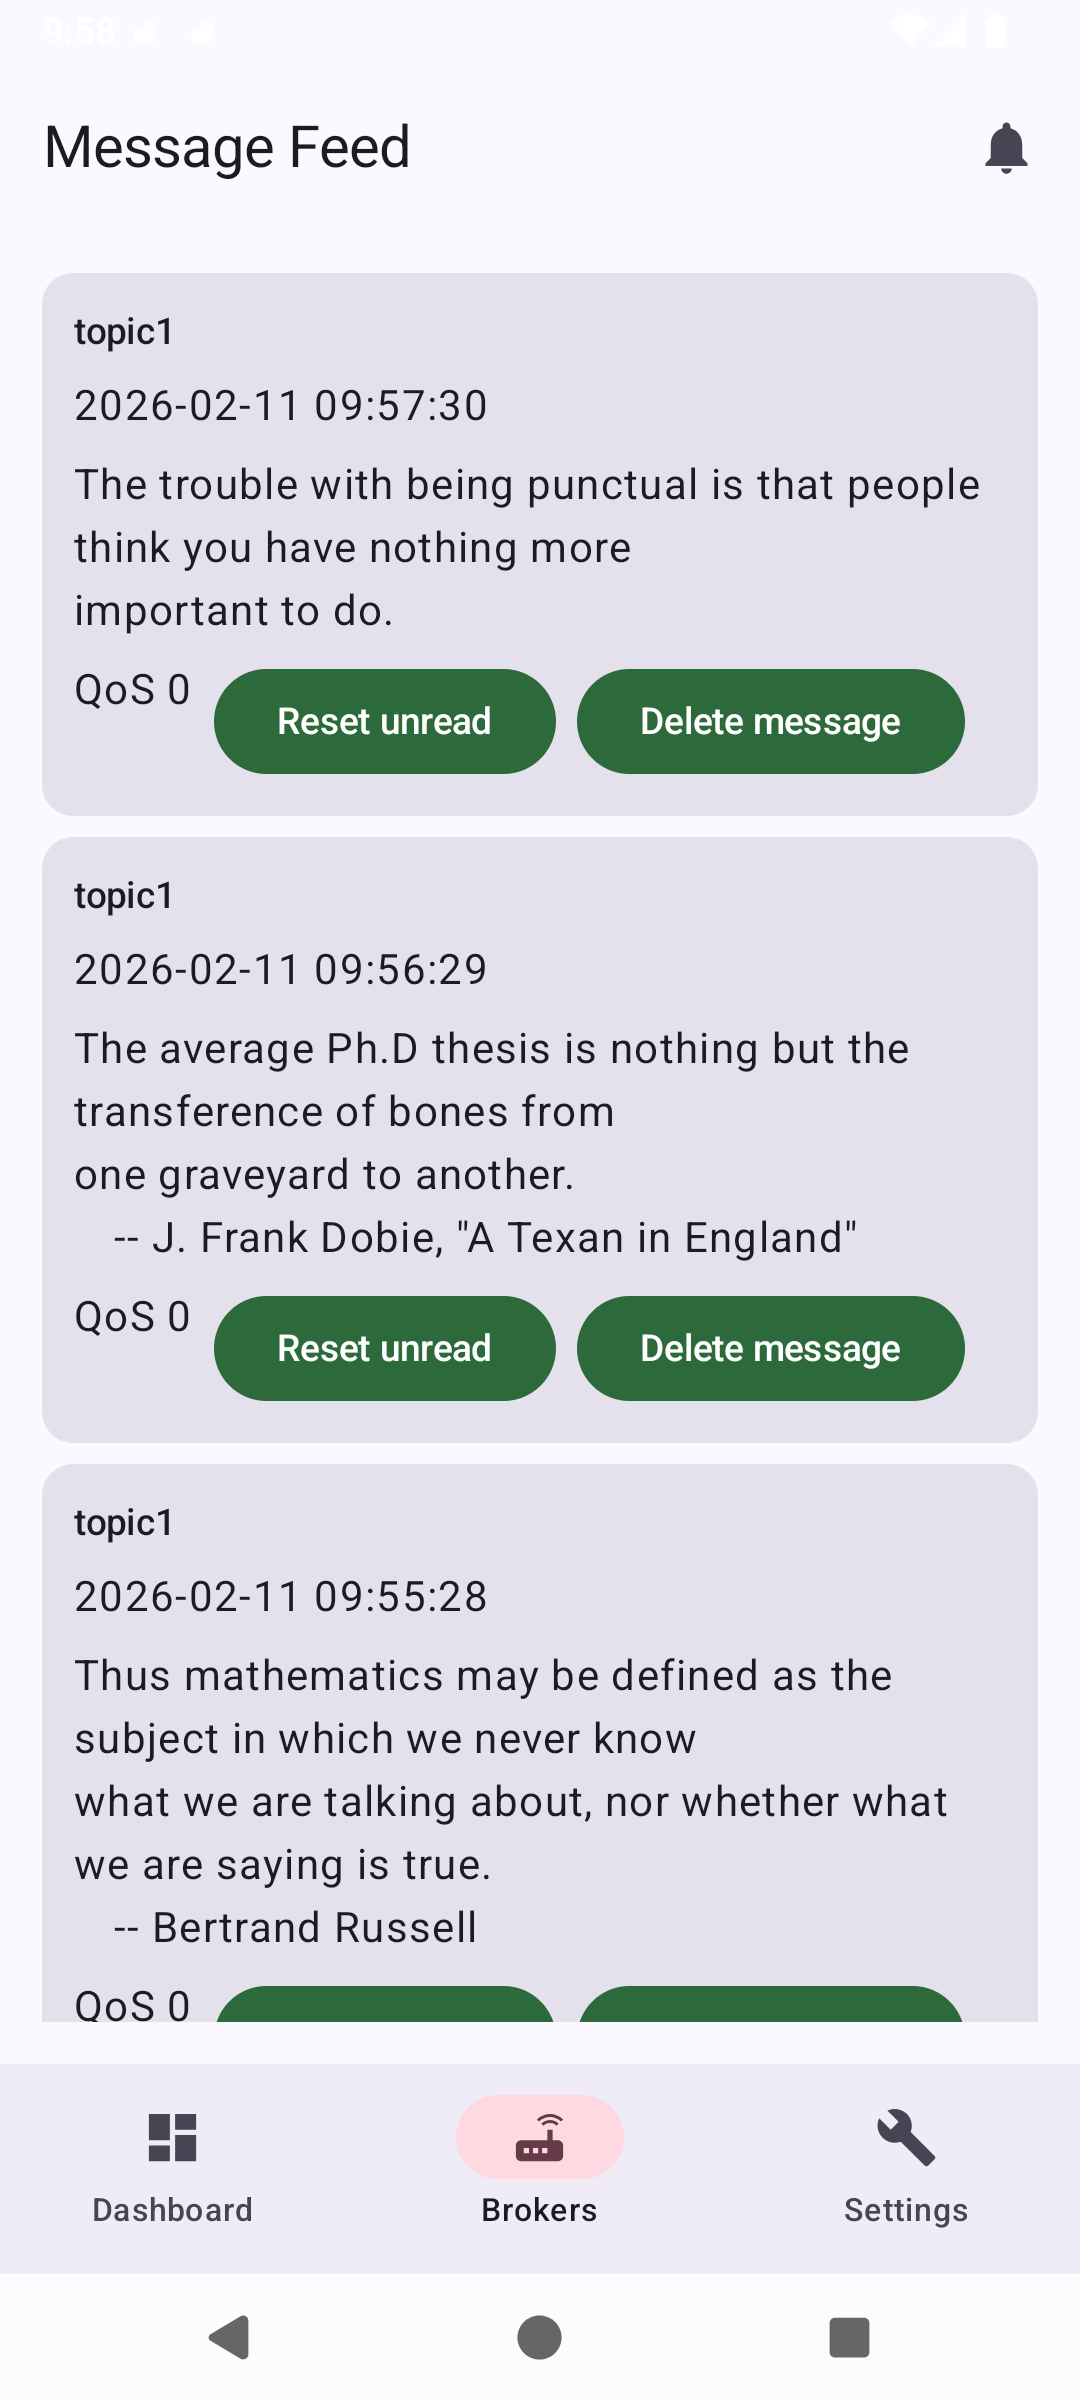
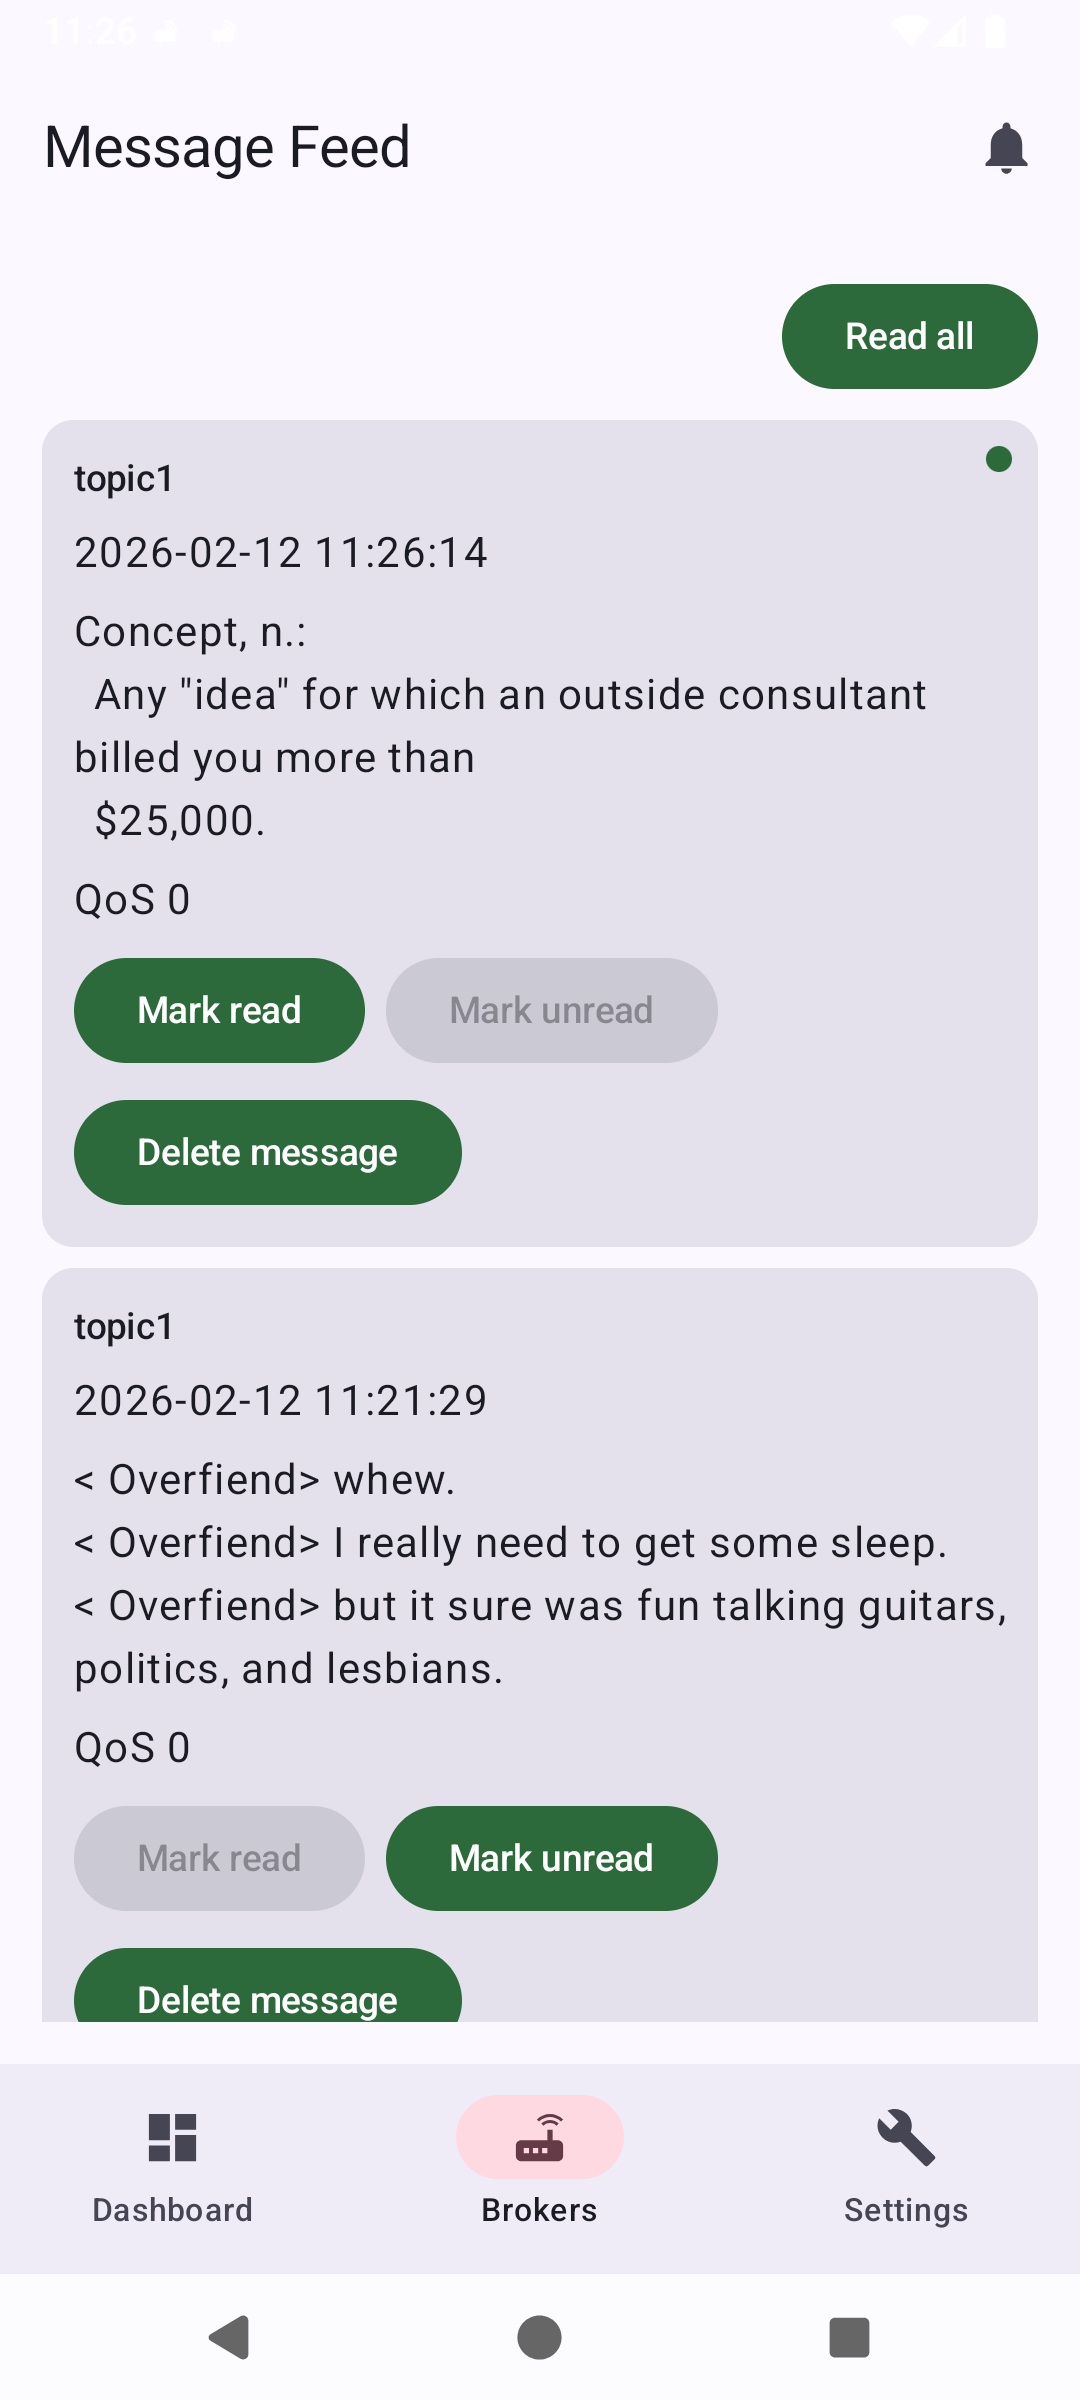
update read/unread system

diff --git a/app/src/main/java/org/archuser/mqttnotify/ui/screen/MessageFeedScreen.kt b/app/src/main/java/org/archuser/mqttnotify/ui/screen/MessageFeedScreen.kt
@@ -3,53 +3,97 @@ package org.archuser.mqttnotify.ui.screen
 import java.text.SimpleDateFormat
 import java.util.Date
 import java.util.Locale
+import androidx.compose.foundation.background
+import androidx.compose.foundation.layout.Box
 import androidx.compose.foundation.layout.Arrangement
 import androidx.compose.foundation.layout.Column
 import androidx.compose.foundation.layout.Row
 import androidx.compose.foundation.layout.fillMaxWidth
 import androidx.compose.foundation.layout.padding
+import androidx.compose.foundation.layout.size
 import androidx.compose.foundation.lazy.LazyColumn
 import androidx.compose.foundation.lazy.items
+import androidx.compose.foundation.shape.CircleShape
 import androidx.compose.material3.Button
 import androidx.compose.material3.Card
 import androidx.compose.material3.MaterialTheme
 import androidx.compose.material3.Text
 import androidx.compose.runtime.Composable
+import androidx.compose.ui.Alignment
 import androidx.compose.ui.Modifier
+import androidx.compose.ui.draw.clip
 import androidx.compose.ui.unit.dp
 import org.archuser.mqttnotify.domain.model.InboundMessageRecord
 
 @Composable
 fun MessageFeedScreen(
     messages: List<InboundMessageRecord>,
-    onResetUnread: (String) -> Unit,
+    onReadAll: () -> Unit,
+    onMarkMessageRead: (Long) -> Unit,
+    onMarkMessageUnread: (Long) -> Unit,
     onDeleteMessage: (Long) -> Unit
 ) {
     val formatter = SimpleDateFormat("yyyy-MM-dd HH:mm:ss", Locale.US)
+    val hasUnread = messages.any { it.isUnread }
 
     LazyColumn(
         modifier = Modifier.padding(16.dp),
         verticalArrangement = Arrangement.spacedBy(8.dp)
     ) {
+        item {
+            Row(modifier = Modifier.fillMaxWidth(), horizontalArrangement = Arrangement.End) {
+                Button(onClick = onReadAll, enabled = hasUnread) {
+                    Text("Read all")
+                }
+            }
+        }
+
         items(messages, key = { it.id }) { msg ->
             Card(modifier = Modifier.fillMaxWidth()) {
-                Column(modifier = Modifier.padding(12.dp), verticalArrangement = Arrangement.spacedBy(6.dp)) {
-                    Row(horizontalArrangement = Arrangement.spacedBy(8.dp)) {
-                        Text(msg.topic, style = MaterialTheme.typography.titleSmall)
-                        if (msg.retained) {
-                            Text("retained", color = MaterialTheme.colorScheme.primary)
+                Box(modifier = Modifier.fillMaxWidth()) {
+                    Column(modifier = Modifier.padding(12.dp), verticalArrangement = Arrangement.spacedBy(6.dp)) {
+                        Row(horizontalArrangement = Arrangement.spacedBy(8.dp)) {
+                            Text(msg.topic, style = MaterialTheme.typography.titleSmall)
+                            if (msg.retained) {
+                                Text("retained", color = MaterialTheme.colorScheme.primary)
+                            }
+                        }
+                        Text(formatter.format(Date(msg.receivedAt)))
+                        Text(msg.payloadPreview)
+                        Row(
+                            modifier = Modifier.fillMaxWidth(),
+                            horizontalArrangement = Arrangement.spacedBy(8.dp)
+                        ) {
+                            Text("QoS ${msg.qos}")
+                        }
+                        Row(
+                            modifier = Modifier.fillMaxWidth(),
+                            horizontalArrangement = Arrangement.spacedBy(8.dp)
+                        ) {
+                            Button(onClick = { onMarkMessageRead(msg.id) }, enabled = msg.isUnread) {
+                                Text("Mark read")
+                            }
+                            Button(onClick = { onMarkMessageUnread(msg.id) }, enabled = !msg.isUnread) {
+                                Text("Mark unread")
+                            }
+                        }
+                        Row(
+                            modifier = Modifier.fillMaxWidth(),
+                            horizontalArrangement = Arrangement.spacedBy(8.dp)
+                        ) {
+                            Button(onClick = { onDeleteMessage(msg.id) }) { Text("Delete message") }
                         }
                     }
-                    Text(formatter.format(Date(msg.receivedAt)))
-                    Text(msg.payloadPreview)
-                    Row(horizontalArrangement = Arrangement.spacedBy(8.dp)) {
-                        Text("QoS ${msg.qos}")
-                        Button(onClick = { onResetUnread(msg.topic) }) {
-                            Text("Reset unread")
-                        }
-                        Button(onClick = { onDeleteMessage(msg.id) }) {
-                            Text("Delete message")
-                        }
+
+                    if (msg.isUnread) {
+                        Box(
+                            modifier = Modifier
+                                .align(Alignment.TopEnd)
+                                .padding(top = 10.dp, end = 10.dp)
+                                .clip(CircleShape)
+                                .background(MaterialTheme.colorScheme.primary)
+                                .size(10.dp)
+                        )
                     }
                 }
             }

diff --git a/app/src/main/java/org/archuser/mqttnotify/data/repo/MessageRepositoryImpl.kt b/app/src/main/java/org/archuser/mqttnotify/data/repo/MessageRepositoryImpl.kt
@@ -57,7 +57,8 @@ class MessageRepositoryImpl @Inject constructor(
             retained = event.retained,
             duplicate = event.duplicate,
             packetId = event.packetId,
-            isNewActivity = isNewActivity
+            isNewActivity = isNewActivity,
+            isUnread = isNewActivity
         )
 
         val insertedId = messageDao.insert(entity)
@@ -86,7 +87,27 @@ class MessageRepositoryImpl @Inject constructor(
     }
 
     override suspend fun resetUnreadForTopic(brokerId: Long, topic: String) = withContext(dispatchers.io) {
+        messageDao.markAllReadForTopic(brokerId, topic)
         topicCounterDao.resetUnreadForTopic(brokerId, topic)
+    }
+
+    override suspend fun resetUnreadForBroker(brokerId: Long) = withContext(dispatchers.io) {
+        messageDao.markAllReadForBroker(brokerId)
+        topicCounterDao.resetUnreadForBroker(brokerId)
+    }
+
+    override suspend fun markMessageRead(messageId: Long) = withContext(dispatchers.io) {
+        val message = messageDao.getById(messageId) ?: return@withContext
+        if (!message.isUnread) return@withContext
+        messageDao.markReadById(messageId)
+        topicCounterDao.decrementUnreadForTopic(message.brokerId, message.topicFilter)
+    }
+
+    override suspend fun markMessageUnread(messageId: Long) = withContext(dispatchers.io) {
+        val message = messageDao.getById(messageId) ?: return@withContext
+        if (message.isUnread) return@withContext
+        messageDao.markUnreadById(messageId)
+        topicCounterDao.incrementUnreadForTopic(message.brokerId, message.topicFilter)
     }
 
     override suspend fun unreadCountForBroker(brokerId: Long): Int = withContext(dispatchers.io) {
@@ -94,7 +115,13 @@ class MessageRepositoryImpl @Inject constructor(
     }
 
     override suspend fun deleteMessage(messageId: Long) = withContext(dispatchers.io) {
+        val message = messageDao.getById(messageId) ?: return@withContext
         messageDao.deleteById(messageId)
+        topicCounterDao.decrementCountsForDeletedMessage(
+            brokerId = message.brokerId,
+            topic = message.topicFilter,
+            unreadDelta = if (message.isUnread) 1 else 0
+        )
     }
 
     private companion object {

diff --git a/app/src/main/java/org/archuser/mqttnotify/data/local/TopicCounterDao.kt b/app/src/main/java/org/archuser/mqttnotify/data/local/TopicCounterDao.kt
@@ -18,4 +18,21 @@ interface TopicCounterDao {
 
     @Query("UPDATE topic_counters SET unread_count = 0 WHERE broker_id = :brokerId AND topic_filter = :topic")
     suspend fun resetUnreadForTopic(brokerId: Long, topic: String)
+
+    @Query("UPDATE topic_counters SET unread_count = 0 WHERE broker_id = :brokerId")
+    suspend fun resetUnreadForBroker(brokerId: Long)
+
+    @Query("UPDATE topic_counters SET unread_count = unread_count + 1 WHERE broker_id = :brokerId AND topic_filter = :topic")
+    suspend fun incrementUnreadForTopic(brokerId: Long, topic: String)
+
+    @Query("UPDATE topic_counters SET unread_count = MAX(unread_count - 1, 0) WHERE broker_id = :brokerId AND topic_filter = :topic")
+    suspend fun decrementUnreadForTopic(brokerId: Long, topic: String)
+
+    @Query(
+        "UPDATE topic_counters SET " +
+            "unread_count = MAX(unread_count - :unreadDelta, 0), " +
+            "total_count = MAX(total_count - 1, 0) " +
+            "WHERE broker_id = :brokerId AND topic_filter = :topic"
+    )
+    suspend fun decrementCountsForDeletedMessage(brokerId: Long, topic: String, unreadDelta: Int)
 }

diff --git a/app/src/main/java/org/archuser/mqttnotify/data/local/MessageDao.kt b/app/src/main/java/org/archuser/mqttnotify/data/local/MessageDao.kt
@@ -14,6 +14,21 @@ interface MessageDao {
     @Query("SELECT * FROM messages WHERE broker_id = :brokerId ORDER BY received_at DESC LIMIT 500")
     fun observeForBroker(brokerId: Long): Flow<List<MessageEntity>>
 
+    @Query("SELECT * FROM messages WHERE id = :messageId LIMIT 1")
+    suspend fun getById(messageId: Long): MessageEntity?
+
+    @Query("UPDATE messages SET is_unread = 0 WHERE id = :messageId")
+    suspend fun markReadById(messageId: Long)
+
+    @Query("UPDATE messages SET is_unread = 1 WHERE id = :messageId")
+    suspend fun markUnreadById(messageId: Long)
+
+    @Query("UPDATE messages SET is_unread = 0 WHERE broker_id = :brokerId")
+    suspend fun markAllReadForBroker(brokerId: Long)
+
+    @Query("UPDATE messages SET is_unread = 0 WHERE broker_id = :brokerId AND topic_filter = :topic")
+    suspend fun markAllReadForTopic(brokerId: Long, topic: String)
+
     @Query("DELETE FROM messages WHERE broker_id = :brokerId AND topic_filter = :topic AND received_at < :cutoff")
     suspend fun deleteOlderThan(brokerId: Long, topic: String, cutoff: Long)
 

diff --git a/app/src/main/java/org/archuser/mqttnotify/ui/navigation/AppNav.kt b/app/src/main/java/org/archuser/mqttnotify/ui/navigation/AppNav.kt
@@ -229,9 +229,17 @@ fun AppNav(appChromeViewModel: AppChromeViewModel) {
                 val messages by vm.messages.collectAsStateWithLifecycle()
                 MessageFeedScreen(
                     messages = messages,
-                    onResetUnread = {
-                        vm.resetUnread(it)
-                        toast("Unread count reset for $it")
+                    onReadAll = {
+                        vm.markAllRead()
+                        toast("All messages marked as read")
+                    },
+                    onMarkMessageRead = {
+                        vm.markMessageRead(it)
+                        toast("Message marked as read")
+                    },
+                    onMarkMessageUnread = {
+                        vm.markMessageUnread(it)
+                        toast("Message marked as unread")
                     },
                     onDeleteMessage = {
                         vm.deleteMessage(it)

diff --git a/app/src/main/java/org/archuser/mqttnotify/ui/viewmodel/MessageFeedViewModel.kt b/app/src/main/java/org/archuser/mqttnotify/ui/viewmodel/MessageFeedViewModel.kt
@@ -31,9 +31,21 @@ class MessageFeedViewModel @Inject constructor(
         }
     }
 
-    fun resetUnread(topic: String) {
+    fun markMessageRead(messageId: Long) {
         viewModelScope.launch {
-            messageRepository.resetUnreadForTopic(brokerId, topic)
+            messageRepository.markMessageRead(messageId)
+        }
+    }
+
+    fun markAllRead() {
+        viewModelScope.launch {
+            messageRepository.resetUnreadForBroker(brokerId)
+        }
+    }
+
+    fun markMessageUnread(messageId: Long) {
+        viewModelScope.launch {
+            messageRepository.markMessageUnread(messageId)
         }
     }
 

diff --git a/app/src/main/java/org/archuser/mqttnotify/domain/repo/MessageRepository.kt b/app/src/main/java/org/archuser/mqttnotify/domain/repo/MessageRepository.kt
@@ -8,6 +8,9 @@ interface MessageRepository {
     fun observeMessagesForBroker(brokerId: Long): Flow<List<InboundMessageRecord>>
     suspend fun ingestMessage(brokerId: Long, event: MqttEvent.MessageReceived): InboundMessageRecord
     suspend fun resetUnreadForTopic(brokerId: Long, topic: String)
+    suspend fun resetUnreadForBroker(brokerId: Long)
+    suspend fun markMessageRead(messageId: Long)
+    suspend fun markMessageUnread(messageId: Long)
     suspend fun unreadCountForBroker(brokerId: Long): Int
     suspend fun deleteMessage(messageId: Long)
 }

diff --git a/app/src/main/java/org/archuser/mqttnotify/data/local/MessageEntity.kt b/app/src/main/java/org/archuser/mqttnotify/data/local/MessageEntity.kt
@@ -29,5 +29,6 @@ data class MessageEntity(
     val retained: Boolean,
     val duplicate: Boolean,
     @ColumnInfo(name = "packet_id") val packetId: Int?,
-    @ColumnInfo(name = "is_new_activity") val isNewActivity: Boolean
+    @ColumnInfo(name = "is_new_activity") val isNewActivity: Boolean,
+    @ColumnInfo(name = "is_unread") val isUnread: Boolean
 )

diff --git a/app/src/main/java/org/archuser/mqttnotify/data/repo/Mappers.kt b/app/src/main/java/org/archuser/mqttnotify/data/repo/Mappers.kt
@@ -77,7 +77,8 @@ fun MessageEntity.toModel(): InboundMessageRecord = InboundMessageRecord(
     retained = retained,
     duplicate = duplicate,
     packetId = packetId,
-    isNewActivity = isNewActivity
+    isNewActivity = isNewActivity,
+    isUnread = isUnread
 )
 
 fun RetentionPolicyEntity.toModel(): RetentionPolicy = RetentionPolicy(

diff --git a/app/src/main/java/org/archuser/mqttnotify/data/local/AppDatabase.kt b/app/src/main/java/org/archuser/mqttnotify/data/local/AppDatabase.kt
@@ -12,7 +12,7 @@ import androidx.room.RoomDatabase
         RetentionPolicyEntity::class,
         AppStateEntity::class
     ],
-    version = 2,
+    version = 3,
     exportSchema = false
 )
 abstract class AppDatabase : RoomDatabase() {

diff --git a/app/src/main/java/org/archuser/mqttnotify/domain/model/InboundMessageRecord.kt b/app/src/main/java/org/archuser/mqttnotify/domain/model/InboundMessageRecord.kt
@@ -11,5 +11,6 @@ data class InboundMessageRecord(
     val retained: Boolean,
     val duplicate: Boolean,
     val packetId: Int?,
-    val isNewActivity: Boolean
+    val isNewActivity: Boolean,
+    val isUnread: Boolean
 )

diff --git a/README.md b/README.md
@@ -7,6 +7,7 @@
 MQTT Monitor is an Android MQTT client focused on message monitoring and notification delivery from user-managed brokers.
 
 - Application ID: `org.archuser.mqttnotify`
+- Current Version: `1.1.0` (versionCode `3`)
 - Language: Kotlin
 - UI: Jetpack Compose
 - Min SDK: 26
@@ -20,7 +21,9 @@ MQTT Monitor is an Android MQTT client focused on message monitoring and notific
 - Optional TLS and username/password authentication
 - Topic subscription management (QoS, per-topic notifications, retained-as-new behavior)
 - Local message persistence and per-topic counters
-- Per-message deletion and unread reset by topic
+- Per-message read/unread state and per-message deletion
+- Message Feed controls for `Read all`, `Mark read`, and `Mark unread`
+- Unread messages indicated with a dot marker on the message card
 - Global notification mute with duration selection
 - Material You enable/disable setting
 - Diagnostics/event log view
